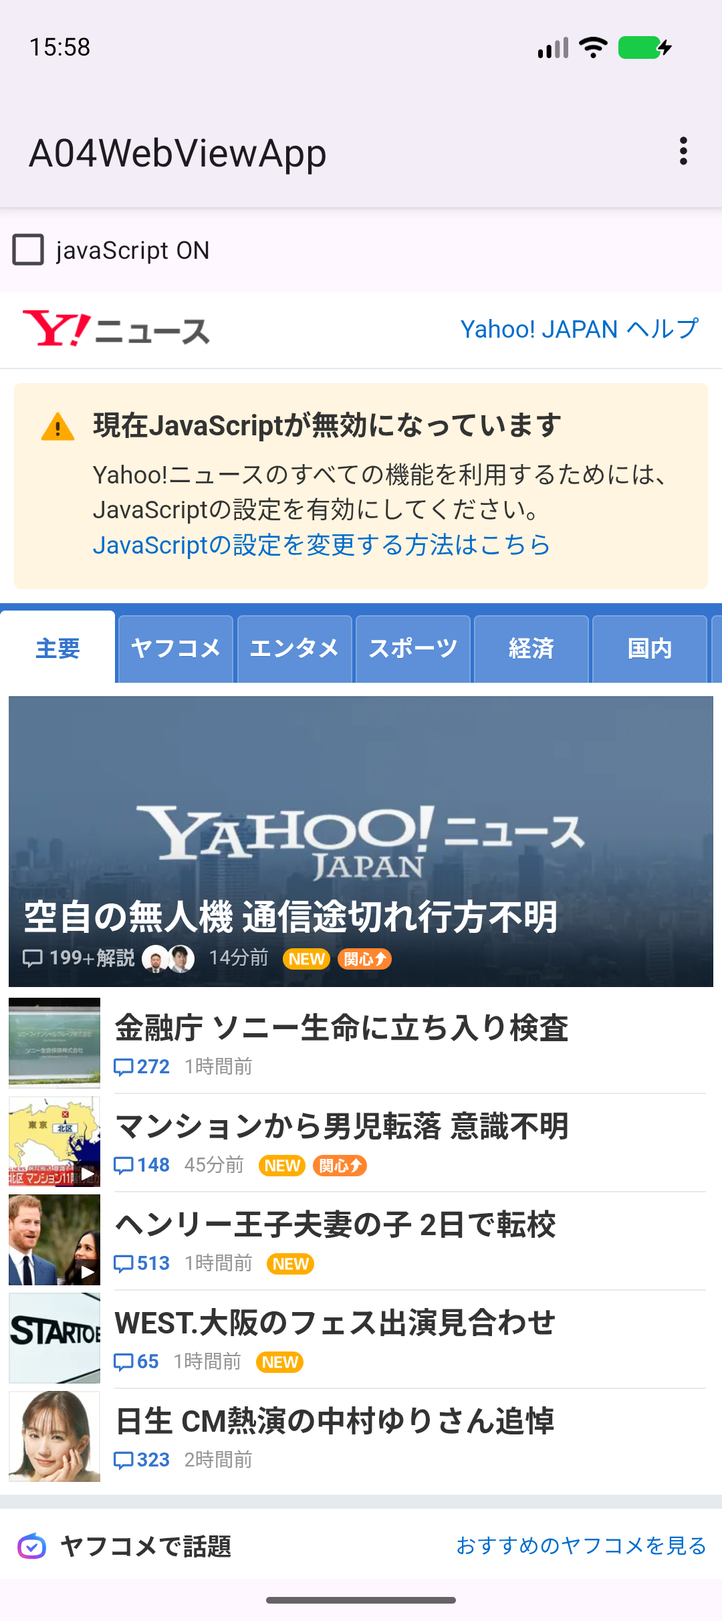
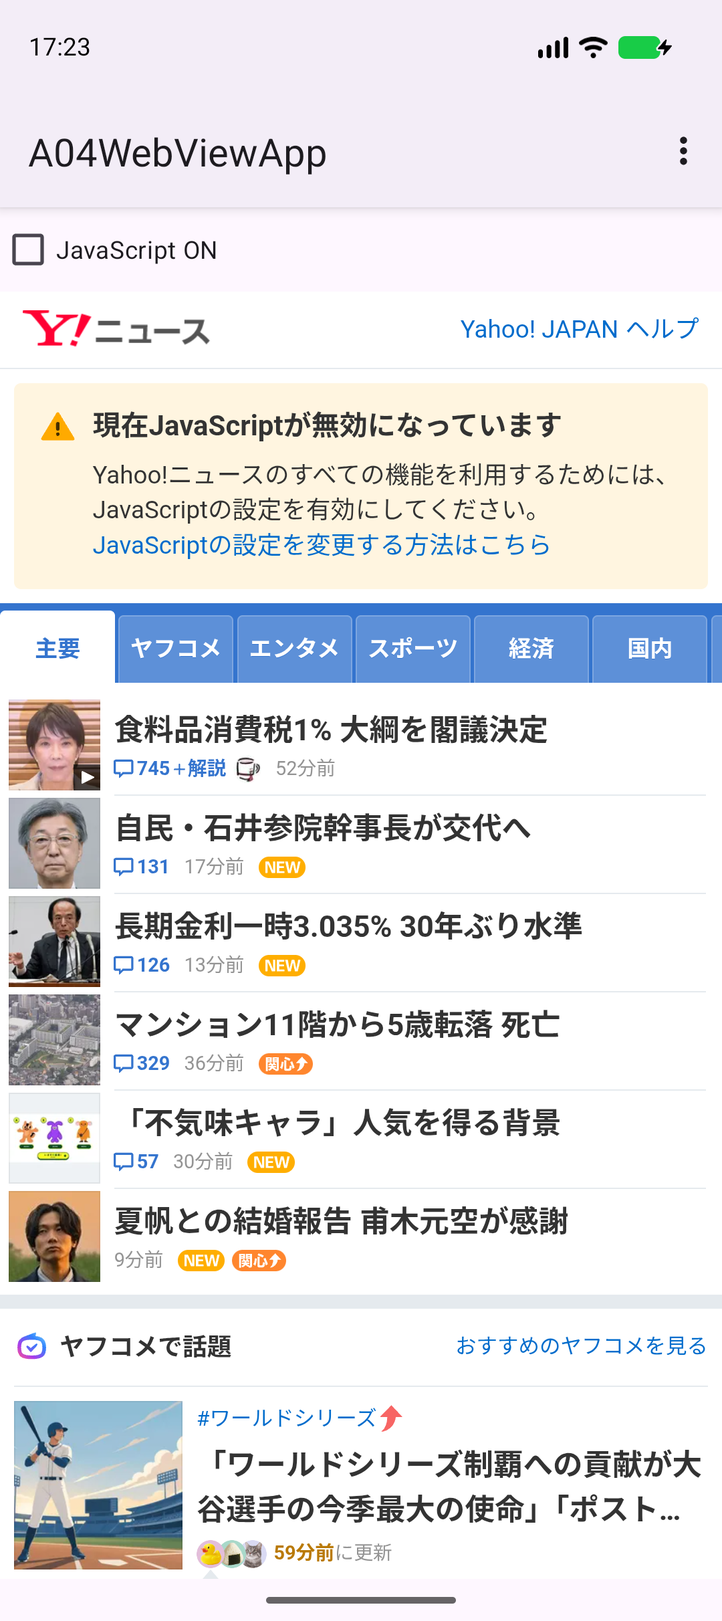
A04：チェックボックスの表示を「JavaScript ON」に修正し、画面画像を撮り直す
レビュー指摘（表記の誤り）への対応。
- activity_main.xml の android:text を javaScript ON から JavaScript ON に修正
- 教科書・教員用ガイド・照合コード03・完成版ZIPを同じ表記にそろえる
- 表示文字が変わるアプリ画像5点を jec_26cm_android1_Pixel 9a で撮り直す
- 4サイトをJavaScriptのON/OFFで表示確認した結果を教員用ガイドに記載し、
  SLAM DUNKのサイトで出るCookieの確認画面の扱いを教科書STEP 7に追記

diff --git a/docs/webview-app/index.html b/docs/webview-app/index.html
@@ -28,8 +28,8 @@
 
 <p>これまでの単元では、ボタンや画像など、アプリの中に用意した部品を表示しました。今回は <strong>WebView（ウェブビュー）</strong> を使い、<strong>インターネットのWebページをアプリの中に表示する</strong>アプリを作ります。右上のメニューでサイトを切り替え、チェックボックスでJavaScriptのON/OFFを切り替えます。</p>
 <div class="flow" aria-label="アプリの使い方"><strong>⋮ でサイトを選ぶ</strong><span>→</span><strong>ページを表示</strong><span>→</span><strong>リンクで移動</strong><span>→</span><strong>戻る操作で前のページへ</strong></div>
-<div class="phones"><figure><a href="images/app-initial.png"><img src="images/app-initial.png" width="1080" height="2424" loading="lazy" alt="起動直後。ActionBarにA04WebViewAppと縦に3つの点のメニュー、チェックなしのjavaScript ON、その下は白い画面"></a><figcaption>① 起動直後。まだページは表示しません。 <a href="images/app-initial.png">画像を大きく開く</a></figcaption></figure>
-<figure><a href="images/app-yahoo.png"><img src="images/app-yahoo.png" width="1080" height="2424" loading="lazy" alt="javaScript ONにチェックがあり、WebViewにYahoo!ニュースのトップページが表示されている"></a><figcaption>② メニューからYahoo!ニュースを表示（javaScript ON）。 <a href="images/app-yahoo.png">画像を大きく開く</a></figcaption></figure>
+<div class="phones"><figure><a href="images/app-initial.png"><img src="images/app-initial.png" width="1080" height="2424" loading="lazy" alt="起動直後。ActionBarにA04WebViewAppと縦に3つの点のメニュー、チェックなしのJavaScript ON、その下は白い画面"></a><figcaption>① 起動直後。まだページは表示しません。 <a href="images/app-initial.png">画像を大きく開く</a></figcaption></figure>
+<figure><a href="images/app-yahoo.png"><img src="images/app-yahoo.png" width="1080" height="2424" loading="lazy" alt="JavaScript ONにチェックがあり、WebViewにYahoo!ニュースのトップページが表示されている"></a><figcaption>② メニューからYahoo!ニュースを表示（JavaScript ON）。 <a href="images/app-yahoo.png">画像を大きく開く</a></figcaption></figure>
 </div>
 <h3>できるようになること</h3>
 <ol><li>インターネットの許可を追加し、WebViewでWebページを表示する。</li><li>enumでメニューの項目をまとめ、オプションメニューからページを切り替える。</li><li>JavaScriptのON/OFFを切り替え、Android 16以降でも動く方法で、戻る操作を前のページへの移動にする。</li></ol>
@@ -44,15 +44,15 @@
 <div class="note"><p class="box-title">インターネット接続が必要です</p><p>このアプリは、実行中にインターネットのページを読み込みます。Macがネットにつながっていることを確認します。ニュースの見出しなどのページの内容は、画像と違って構いません。サイト側の更新で、見た目が変わることもあります。</p></div>
 
 <h3>完成アプリの操作</h3><table><thead><tr><th>操作</th><th>結果</th></tr></thead><tbody>
-<tr><td>起動直後</td><td>ActionBarに「A04WebViewApp」と <strong>⋮</strong>。「javaScript ON」はチェックなし。下は白い画面。</td></tr>
+<tr><td>起動直後</td><td>ActionBarに「A04WebViewApp」と <strong>⋮</strong>。「JavaScript ON」はチェックなし。下は白い画面。</td></tr>
 <tr><td>⋮ → サイト名</td><td>そのサイトをアプリの中に表示する。</td></tr>
 <tr><td>ページ内のリンク</td><td>Chromeは開かず、アプリの中で移動する。</td></tr>
-<tr><td>「javaScript ON」を切り替える</td><td>JavaScriptの有効・無効を変えて、今のページを読み込み直す。</td></tr>
+<tr><td>「JavaScript ON」を切り替える</td><td>JavaScriptの有効・無効を変えて、今のページを読み込み直す。</td></tr>
 <tr><td>戻る操作</td><td>前のページがあれば戻る。なければホーム画面に戻る。</td></tr>
 </tbody></table>
 
 <div class="note"><p class="box-title">画面回転について</p><p>各単元では画面回転時のデータ保持を扱いません。回転などでActivityが作り直されると、表示中のページと戻るための履歴は初期状態に戻ります。縦向きで使います。この観点は別単元の演習アプリで検証します。</p></div>
-<div class="check"><p class="box-title">ここで止まって、確認</p><label><input type="checkbox" data-check="step-0"><span>⋮ のメニュー、「javaScript ON」、戻る操作の役割を画像と表で説明できた。</span></label><p>できたらチェックします。困ったときはSTEP番号と画面を先生に見せましょう。</p></div>
+<div class="check"><p class="box-title">ここで止まって、確認</p><label><input type="checkbox" data-check="step-0"><span>⋮ のメニュー、「JavaScript ON」、戻る操作の役割を画像と表で説明できた。</span></label><p>できたらチェックします。困ったときはSTEP番号と画面を先生に見せましょう。</p></div>
 <div class="next"><a href="#step-1">次へ：プロジェクトを作って実行 →</a></div>
 </section>
 <section id="step-1" aria-labelledby="title-1">
@@ -188,7 +188,7 @@
         android:id=&quot;@+id/checkBox&quot;
         android:layout_width=&quot;wrap_content&quot;
         android:layout_height=&quot;wrap_content&quot;
-        android:text=&quot;javaScript ON&quot; /&gt;
+        android:text=&quot;JavaScript ON&quot; /&gt;
 
     &lt;WebView
         android:id=&quot;@+id/webView&quot;
@@ -203,9 +203,9 @@
 </tbody></table>
 
 <p><code>android:id="@+id/main"</code> はJavaのひな形でも使うため残します。<code>checkBox</code> と <code>webView</code> は、次にJavaから探すための名前です。大文字・小文字も区別します。</p>
-<p>チェックボックスの文字 <code>javaScript ON</code> は完成版に合わせています。文字を直接書いたことによる <code>Hardcoded text</code> の警告は、これまでの単元と同様にそのまま進めます。</p>
-<h3>Runで確かめる</h3><p>ActionBarの下に「javaScript ON」のチェックボックスが表示され、その下は白い画面です。チェックは付けたり外したりできますが、まだ何も起きません。</p>
-<figure class="phone"><a href="images/app-initial.png"><img src="images/app-initial.png" width="1080" height="2424" loading="lazy" alt="ActionBarの下にjavaScript ONのチェックボックスがあり、その下は白い画面"></a><figcaption>このSTEPの画面。白い部分がWebViewです。 <a href="images/app-initial.png">画像を大きく開く</a></figcaption></figure>
+<p>文字を直接書いたことによる <code>Hardcoded text</code> の警告は、これまでの単元と同様にそのまま進めます。</p>
+<h3>Runで確かめる</h3><p>ActionBarの下に「JavaScript ON」のチェックボックスが表示され、その下は白い画面です。チェックは付けたり外したりできますが、まだ何も起きません。</p>
+<figure class="phone"><a href="images/app-initial.png"><img src="images/app-initial.png" width="1080" height="2424" loading="lazy" alt="ActionBarの下にJavaScript ONのチェックボックスがあり、その下は白い画面"></a><figcaption>このSTEPの画面。白い部分がWebViewです。 <a href="images/app-initial.png">画像を大きく開く</a></figcaption></figure>
 <div class="check"><p class="box-title">ここで止まって、確認</p><label><input type="checkbox" data-check="step-3"><span>チェックボックスと白いWebViewが表示され、checkBoxとwebViewのidを確認した。</span></label><p>できたらチェックします。困ったときはSTEP番号と画面を先生に見せましょう。</p></div>
 <div class="next"><a href="#step-4">次へ：WebViewでページを表示 →</a></div>
 </section>
@@ -235,7 +235,7 @@ webView.loadUrl(&quot;https://news.yahoo.co.jp/&quot;); // 表示の確認用。
 
 <div class="note"><p class="box-title">loadUrlの行は確認用です</p><p>行の後ろのコメントのとおり、この1行は表示を確かめるための仮の行です。STEP 6でメニューから開く形に変えるときに削除します。</p></div>
 <h3>Runで確かめる</h3><p>起動するとYahoo!ニュースが表示されます。上部に「現在JavaScriptが無効になっています」と出るのは、WebViewの初期設定でJavaScriptが無効だからです。STEP 7で切り替えられるようにします。</p>
-<figure class="phone"><a href="images/app-js-off.png"><img src="images/app-js-off.png" width="1080" height="2424" loading="lazy" alt="javaScript ONはチェックなし。Yahoo!ニュースの上部に、現在JavaScriptが無効になっていますという案内が表示されている"></a><figcaption>JavaScriptが無効のため、サイトの案内が出ます。 <a href="images/app-js-off.png">画像を大きく開く</a></figcaption></figure>
+<figure class="phone"><a href="images/app-js-off.png"><img src="images/app-js-off.png" width="1080" height="2424" loading="lazy" alt="JavaScript ONはチェックなし。Yahoo!ニュースの上部に、現在JavaScriptが無効になっていますという案内が表示されている"></a><figcaption>JavaScriptが無効のため、サイトの案内が出ます。 <a href="images/app-js-off.png">画像を大きく開く</a></figcaption></figure>
 <div class="note"><p class="box-title">「ウェブページへのアクセス不可」と出たとき</p><p><code>net::ERR_CACHE_MISS</code> と表示される場合は、STEP 2のINTERNETの許可の行がないか、つづりが違うか、保存されていません。<code>AndroidManifest.xml</code> を確認して保存し、もう一度Runします。別のエラー名のときは、Macがインターネットにつながっているかを確認します。</p><p>許可の行を <code>&lt;application&gt;</code> の中に書いた場合は、ページの表示までは進まず、ビルドの時点で <code>unexpected element &lt;uses-permission&gt; found in &lt;manifest&gt;&lt;application&gt;</code> というエラーになります。行を <code>&lt;application</code> の上に移動します。</p></div>
 <div class="check"><p class="box-title">ここで止まって、確認</p><label><input type="checkbox" data-check="step-4"><span>Yahoo!ニュースがアプリの中に表示され、JavaScriptが無効という案内を確認した。</span></label><p>できたらチェックします。困ったときはSTEP番号と画面を先生に見せましょう。</p></div>
 <div class="next"><a href="#step-5">次へ：メニューの項目をenumで作る →</a></div>
@@ -389,7 +389,7 @@ public boolean onOptionsItemSelected(@NonNull MenuItem item) {
 <h3>Runで確かめる</h3>
 <ol><li>起動直後は白い画面です（確認用のloadUrlを削除したため）。</li><li>右上の <strong>⋮</strong> を押すと、4つのサイト名が表示されます。</li><li>「映画「SLAM DUNK」公式サイト」を押すと、そのページが表示されます。ほかの項目も試します。</li></ol>
 <div class="phones"><figure><a href="images/app-menu.png"><img src="images/app-menu.png" width="1080" height="2424" loading="lazy" alt="右上のメニューが開き、Yahoo!ニュース、GitHub Copilot、映画「SLAM DUNK」公式サイト、OpenAI ChatGPTの4項目が並んでいる"></a><figcaption>⋮ を押したところ。enumに書いた順に並びます。 <a href="images/app-menu.png">画像を大きく開く</a></figcaption></figure>
-<figure><a href="images/app-slamdunk.png"><img src="images/app-slamdunk.png" width="1080" height="2424" loading="lazy" alt="WebViewに映画「SLAM DUNK」公式サイトが表示されている"></a><figcaption>SLAM DUNKのサイトを表示。画像は完成版でチェックを付けた状態です。 <a href="images/app-slamdunk.png">画像を大きく開く</a></figcaption></figure>
+<figure><a href="images/app-slamdunk.png"><img src="images/app-slamdunk.png" width="1080" height="2424" loading="lazy" alt="WebViewに映画「SLAM DUNK」公式サイトが表示されている"></a><figcaption>SLAM DUNKのサイトを表示。 <a href="images/app-slamdunk.png">画像を大きく開く</a></figcaption></figure>
 </div>
 <div class="note"><p class="box-title">⋮ が表示されないとき</p><p>STEP 2で2つのthemes.xmlから <code>.NoActionBar</code> を消したかを確認します。ActionBarがないと、オプションメニューも表示されません。</p></div>
 <div class="check"><p class="box-title">ここで止まって、確認</p><label><input type="checkbox" data-check="step-6"><span>⋮ に4つのサイト名が出て、押したサイトが表示された。押した項目とordinalの関係を説明できた。</span></label><p>できたらチェックします。困ったときはSTEP番号と画面を先生に見せましょう。</p></div>
@@ -427,10 +427,11 @@ webView.getSettings().setBuiltInZoomControls(true);</code></pre>
 </tbody></table>
 
 <h3>Runで確かめる</h3>
-<ol><li>⋮ → Yahoo!ニュースを開きます。チェックなしでは「現在JavaScriptが無効になっています」が出ます。</li><li>「javaScript ON」にチェックを付けます。ページが読み込み直され、案内が消えます。</li><li>チェックを外すと、もう一度読み込み直され、案内が出ます。</li></ol>
+<ol><li>⋮ → Yahoo!ニュースを開きます。チェックなしでは「現在JavaScriptが無効になっています」が出ます。</li><li>「JavaScript ON」にチェックを付けます。ページが読み込み直され、案内が消えます。</li><li>チェックを外すと、もう一度読み込み直され、案内が出ます。</li></ol>
 <div class="phones"><figure><a href="images/app-js-off.png"><img src="images/app-js-off.png" width="1080" height="2424" loading="lazy" alt="チェックなし。Yahoo!ニュースにJavaScriptが無効という案内が出ている"></a><figcaption>チェックなし：JavaScriptが無効。 <a href="images/app-js-off.png">画像を大きく開く</a></figcaption></figure>
 <figure><a href="images/app-yahoo.png"><img src="images/app-yahoo.png" width="1080" height="2424" loading="lazy" alt="チェックあり。Yahoo!ニュースの案内が消え、タブと記事の一覧が表示されている"></a><figcaption>チェックあり：案内が消えます。 <a href="images/app-yahoo.png">画像を大きく開く</a></figcaption></figure>
 </div>
+<div class="note"><p class="box-title">「Cookie」の確認画面が出たとき</p><p>JavaScriptを有効にすると、サイトによっては、Cookie（クッキー）の使い方を確認する画面がページの上に表示されます。映画「SLAM DUNK」公式サイトなどで表示されます。授業での確認では「拒否」を押して閉じて構いません。</p></div>
 <p>余裕があれば、ページを拡大してみます。エミュレータでは <kbd>⌘</kbd> を押しながら画面をドラッグすると、2本指の操作になります。サイト側で拡大を制限している場合は、拡大できないこともあります。</p>
 <div class="note"><p class="box-title">JavaScriptを有効にするときの注意</p><p>JavaScriptを有効にすると、表示したページのプログラムがアプリの中で動きます。どんなURLでも開けるアプリでは、有効にするかを慎重に決めるのが基本です。今回のアプリはメニューにある決まったサイトを開きますが、ページ内のリンクをたどると、ほかのサイトもJavaScriptが有効なままアプリの中で開きます。</p></div>
 <p class="muted">仕様の確認：<a href="https://developer.android.com/reference/android/webkit/WebSettings">WebSettings（Android公式）</a>。</p>
@@ -531,11 +532,11 @@ public boolean onKeyDown(int keyCode, KeyEvent event) {
 
 <h3>完成チェック</h3>
 <table><thead><tr><th>操作</th><th>確認する結果</th></tr></thead><tbody>
-<tr><td>起動直後</td><td>ActionBarに「A04WebViewApp」と ⋮。「javaScript ON」はチェックなし。下は白い画面。</td></tr>
+<tr><td>起動直後</td><td>ActionBarに「A04WebViewApp」と ⋮。「JavaScript ON」はチェックなし。下は白い画面。</td></tr>
 <tr><td>⋮ を押す</td><td>Yahoo!ニュース、GitHub Copilot、映画「SLAM DUNK」公式サイト、OpenAI ChatGPTの4項目が出る。</td></tr>
 <tr><td>各項目を押す</td><td>そのサイトがアプリの中に表示される。</td></tr>
 <tr><td>ページ内のリンクを押す</td><td>Chromeは開かず、アプリの中で移動する。</td></tr>
-<tr><td>「javaScript ON」を付ける・外す</td><td>ページが読み込み直される。Yahoo!ニュースでは、JavaScriptが無効という案内が消える・出る。</td></tr>
+<tr><td>「JavaScript ON」を付ける・外す</td><td>ページが読み込み直される。Yahoo!ニュースでは、JavaScriptが無効という案内が消える・出る。</td></tr>
 <tr><td>リンク先で戻る操作</td><td>前のページに戻る。</td></tr>
 <tr><td>最初のページで戻る操作</td><td>ホーム画面に戻る。</td></tr>
 </tbody></table>
@@ -559,7 +560,7 @@ public boolean onKeyDown(int keyCode, KeyEvent event) {
 <tr><td>戻る操作でホーム画面に戻ってしまう</td><td>リンクなどで2ページ目を開いてから試しているか。<code>addCallback</code> の行と、<code>doUpdateVisitedHistory</code> の <code>setEnabled</code> を確認する。</td></tr>
 <tr><td>起動時に終了する</td><td>setContentViewがfindViewByIdより先か、id/mainを残したかを確認。Logcatで最初の例外を見る。</td></tr>
 <tr><td>起動すると白い画面のまま</td><td>STEP 6以降は、起動直後の白い画面が正常。⋮ からサイトを選ぶ。</td></tr>
-<tr><td>ページの表示が崩れる・一部が出ない</td><td>JavaScriptが必要なページのことがある。「javaScript ON」にしてみる。サイト側の更新で見た目が変わることもある。</td></tr>
+<tr><td>ページの表示が崩れる・一部が出ない</td><td>JavaScriptが必要なページのことがある。「JavaScript ON」にしてみる。サイト側の更新で見た目が変わることもある。</td></tr>
 </tbody></table>
 
 <p><a href="../common/logcat.html">共通資料：Logcat</a>を使います。今回のパッケージは <code>jp.ac.jec.a04webviewapp</code> です。エラーを見るときは <code>package:jp.ac.jec.a04webviewapp level:ERROR</code> にします。これまでの単元のパッケージ名や <code>tag:MainActivity</code> を残さないようにします。</p>
@@ -689,7 +690,7 @@ enum AppMenuItem {
         android:id=&quot;@+id/checkBox&quot;
         android:layout_width=&quot;wrap_content&quot;
         android:layout_height=&quot;wrap_content&quot;
-        android:text=&quot;javaScript ON&quot; /&gt;
+        android:text=&quot;JavaScript ON&quot; /&gt;
 
     &lt;WebView
         android:id=&quot;@+id/webView&quot;

diff --git a/teacher/webview-app/index.html b/teacher/webview-app/index.html
@@ -8,8 +8,8 @@
 <main id="main">
 <div class="hero"><p class="eyebrow">ANDROID PROGRAMMING 1 / 授業サポート</p><h1>教員用ガイド<br>WebViewApp</h1><p class="lede">テーマとManifestの設定、WebView、enumとオプションメニュー、JavaScriptの設定、Android 16以降の戻る操作を、学生が動作確認しながら積み上げる進行案です。90分×2コマを目安に調整します。</p></div>
 <section><h2>1. 授業前の準備</h2>
-<ul><li>学生用の入口は <code>docs/webview-app/index.html</code> です。完成版ZIPと画像を含む教材を、構成を保って配布します。</li><li>Android Studio Panda 2 | 2025.3.2、Java / Empty Views Activity、Minimum SDK API 31を確認します。作成先は <code>Documents/Android1/A04WebViewApp</code>、パッケージは <code>jp.ac.jec.a04webviewapp</code> です。</li><li>アプリの実行中にインターネット接続が必要です。教室のネットワークで、メニューの4サイト（Yahoo!ニュース、GitHub Copilot、映画「SLAM DUNK」公式サイト、OpenAI ChatGPT）とSTEP 9練習1の <code>https://www.jec.ac.jp/</code> が表示できるか、事前に確認します。</li><li>指定エミュレータ <strong>jec_26cm_android1_Pixel 9a</strong>（教材撮影用はAndroid 17）を縦向きで使います。STEP 8の「戻る」はAndroid 16以降の動作変更に関わるため、学生のエミュレータがAndroid 15以前の場合は、STEP 9練習3の結果が教科書と異なります（前のページに戻れる）。</li><li>完成版は <code>Documents/Android1/samples/A04WebViewApp</code> に置きます。学生の作成先と混同しないよう、Run前に保存先を確認します。</li><li>教員用の途中コードは <code>teacher/webview-app/code</code> にあります。学生には配布せず、現在のSTEPの照合に使います。</li></ul>
-<div class="note"><p class="box-title">今回の仕様上の制約</p><p>起動直後はページを読み込まず、白い画面から ⋮ でサイトを選びます。「javaScript ON」は起動時にチェックなし（JavaScript無効）で、切り替えるたびに <code>reload()</code> します。各単元では画面回転時のデータ保持を扱いません。回転などでActivityが再生成された場合、表示中のページと戻る履歴は初期状態に戻ります。この観点は別単元の演習アプリで検証します。</p></div>
+<ul><li>学生用の入口は <code>docs/webview-app/index.html</code> です。完成版ZIPと画像を含む教材を、構成を保って配布します。</li><li>Android Studio Panda 2 | 2025.3.2、Java / Empty Views Activity、Minimum SDK API 31を確認します。作成先は <code>Documents/Android1/A04WebViewApp</code>、パッケージは <code>jp.ac.jec.a04webviewapp</code> です。</li><li>アプリの実行中にインターネット接続が必要です。教室のネットワークで、メニューの4サイト（Yahoo!ニュース、GitHub Copilot、映画「SLAM DUNK」公式サイト、OpenAI ChatGPT）とSTEP 9練習1の <code>https://www.jec.ac.jp/</code> が表示できるか、事前に確認します。2026年9月15日に <code>jec_26cm_android1_Pixel 9a</code> で確認した結果では、4サイトともJavaScriptのON/OFFのどちらでも表示できました（curlではOpenAIが403を返しますが、WebViewでは表示されます）。JavaScriptを有効にすると映画「SLAM DUNK」公式サイトでCookieの同意画面が出るため、教科書では「拒否」で閉じてよいと案内しています。GitHub CopilotはJavaScript無効だと本文の一部が表示されず、ON/OFFの違いが分かりやすいサイトです。</li><li>指定エミュレータ <strong>jec_26cm_android1_Pixel 9a</strong>（教材撮影用はAndroid 17）を縦向きで使います。STEP 8の「戻る」はAndroid 16以降の動作変更に関わるため、学生のエミュレータがAndroid 15以前の場合は、STEP 9練習3の結果が教科書と異なります（前のページに戻れる）。</li><li>完成版は <code>Documents/Android1/samples/A04WebViewApp</code> に置きます。学生の作成先と混同しないよう、Run前に保存先を確認します。</li><li>教員用の途中コードは <code>teacher/webview-app/code</code> にあります。学生には配布せず、現在のSTEPの照合に使います。</li></ul>
+<div class="note"><p class="box-title">今回の仕様上の制約</p><p>起動直後はページを読み込まず、白い画面から ⋮ でサイトを選びます。「JavaScript ON」は起動時にチェックなし（JavaScript無効）で、切り替えるたびに <code>reload()</code> します。各単元では画面回転時のデータ保持を扱いません。回転などでActivityが再生成された場合、表示中のページと戻る履歴は初期状態に戻ります。この観点は別単元の演習アプリで検証します。</p></div>
 </section>
 <section><h2>2. 90分×2コマの進行</h2>
 <table><thead><tr><th>コマ</th><th>時間配分</th><th>終了時の確認</th></tr></thead><tbody>
@@ -56,7 +56,7 @@
 <ul><li>学生自身が ⋮ から4つのサイトを開き、ページ内のリンクで移動し、戻る操作で前のページに戻れる。</li><li>INTERNETの許可・テーマの変更を行ったファイルを指させる。</li><li>AppMenuItemの値とordinal、メニューのidの対応を説明できる。</li><li>配列を2つ使う書き方と比べて、enumを使うメリット（打ち間違いがエラーになる、情報が1行にまとまる、追加がenumだけで済む、名前で読める）を1つ以上説明できる。</li><li><code>onKeyDown</code> ではなく <code>OnBackPressedCallback</code> を使う理由を、Android 16の変更と結び付けて説明できる。</li><li>STEP 9の変更を試したあと、完成版のコードに戻してRunする。</li><li>提出する場合は <a href="../../docs/common/apk.html">共通資料：APKの作り方</a>に従い、先生が指定した場所へ <code>学籍番号_A04WebViewApp.apk</code> を提出する。</li></ul>
 </section>
 <section><h2>7. 教材の保守と確認</h2>
-<ul><li>完成コードを変更したら、教科書の部分コード、完成コード、<code>teacher/webview-app/code</code>、画像、練習の答えをまとめて確認し、<code>python3 scripts/package-hello-android.py --project A04WebViewApp --output docs/webview-app/downloads/A04WebViewApp.zip</code> で配布用ZIPを再作成します。</li><li>メニューのサイトは外部のWebページです。授業前に表示を確認し、サイトの閉鎖やURLの変更があった場合は <code>AppMenuItem</code>・教科書の表・STEP 5の解説（配列の例のコードと、値の使い方の表）・画像・<code>teacher/webview-app/code/05-AppMenuItem.java</code> をまとめて更新します。</li><li>アプリ画像のうち、起動直後・Yahoo!ニュース（javaScript ON）・SLAM DUNKの3点と、新規プロジェクト作成の3点は教員提供資料です。メニューを開いた画面と、Yahoo!ニュース（JavaScript無効）の2点は、教材作成時に <code>jec_26cm_android1_Pixel 9a</code> で完成版を実行して撮影しました。ページの内容は撮影時点のものです。</li><li>画像にはニュースの見出しやサイトの画像が写っています。リポジトリはPublicのため、公開範囲に問題がないか、配布前に確認してください。</li><li>印刷時は補足・解答も展開されます。解答を配布したくない場合は、ブラウザで授業中に開く方式を使ってください。</li></ul>
+<ul><li>完成コードを変更したら、教科書の部分コード、完成コード、<code>teacher/webview-app/code</code>、画像、練習の答えをまとめて確認し、<code>python3 scripts/package-hello-android.py --project A04WebViewApp --output docs/webview-app/downloads/A04WebViewApp.zip</code> で配布用ZIPを再作成します。</li><li>メニューのサイトは外部のWebページです。授業前に表示を確認し、サイトの閉鎖やURLの変更があった場合は <code>AppMenuItem</code>・教科書の表・STEP 5の解説（配列の例のコードと、値の使い方の表）・画像・<code>teacher/webview-app/code/05-AppMenuItem.java</code> をまとめて更新します。</li><li>アプリ画像5点（起動直後、メニューを開いた画面、Yahoo!ニュースのJavaScript無効・有効、SLAM DUNK）は、表示文字を <code>JavaScript ON</code> に直した完成版を、2026年9月15日に <code>jec_26cm_android1_Pixel 9a</code> で実行して撮影しました。新規プロジェクト作成の3点は教員提供資料です。ページの内容は撮影時点のものです。</li><li>画像にはニュースの見出しやサイトの画像が写っています。リポジトリはPublicのため、公開範囲に問題がないか、配布前に確認してください。</li><li>印刷時は補足・解答も展開されます。解答を配布したくない場合は、ブラウザで授業中に開く方式を使ってください。</li></ul>
 </section>
 <footer class="footer"><p><a href="../../docs/webview-app/index.html">← WebViewAppの教科書へ戻る</a></p><p>対象：macOS / Android Studio Panda 2 | 2025.3.2 · 確認日：2026年9月15日</p></footer>
 </main></body></html>
